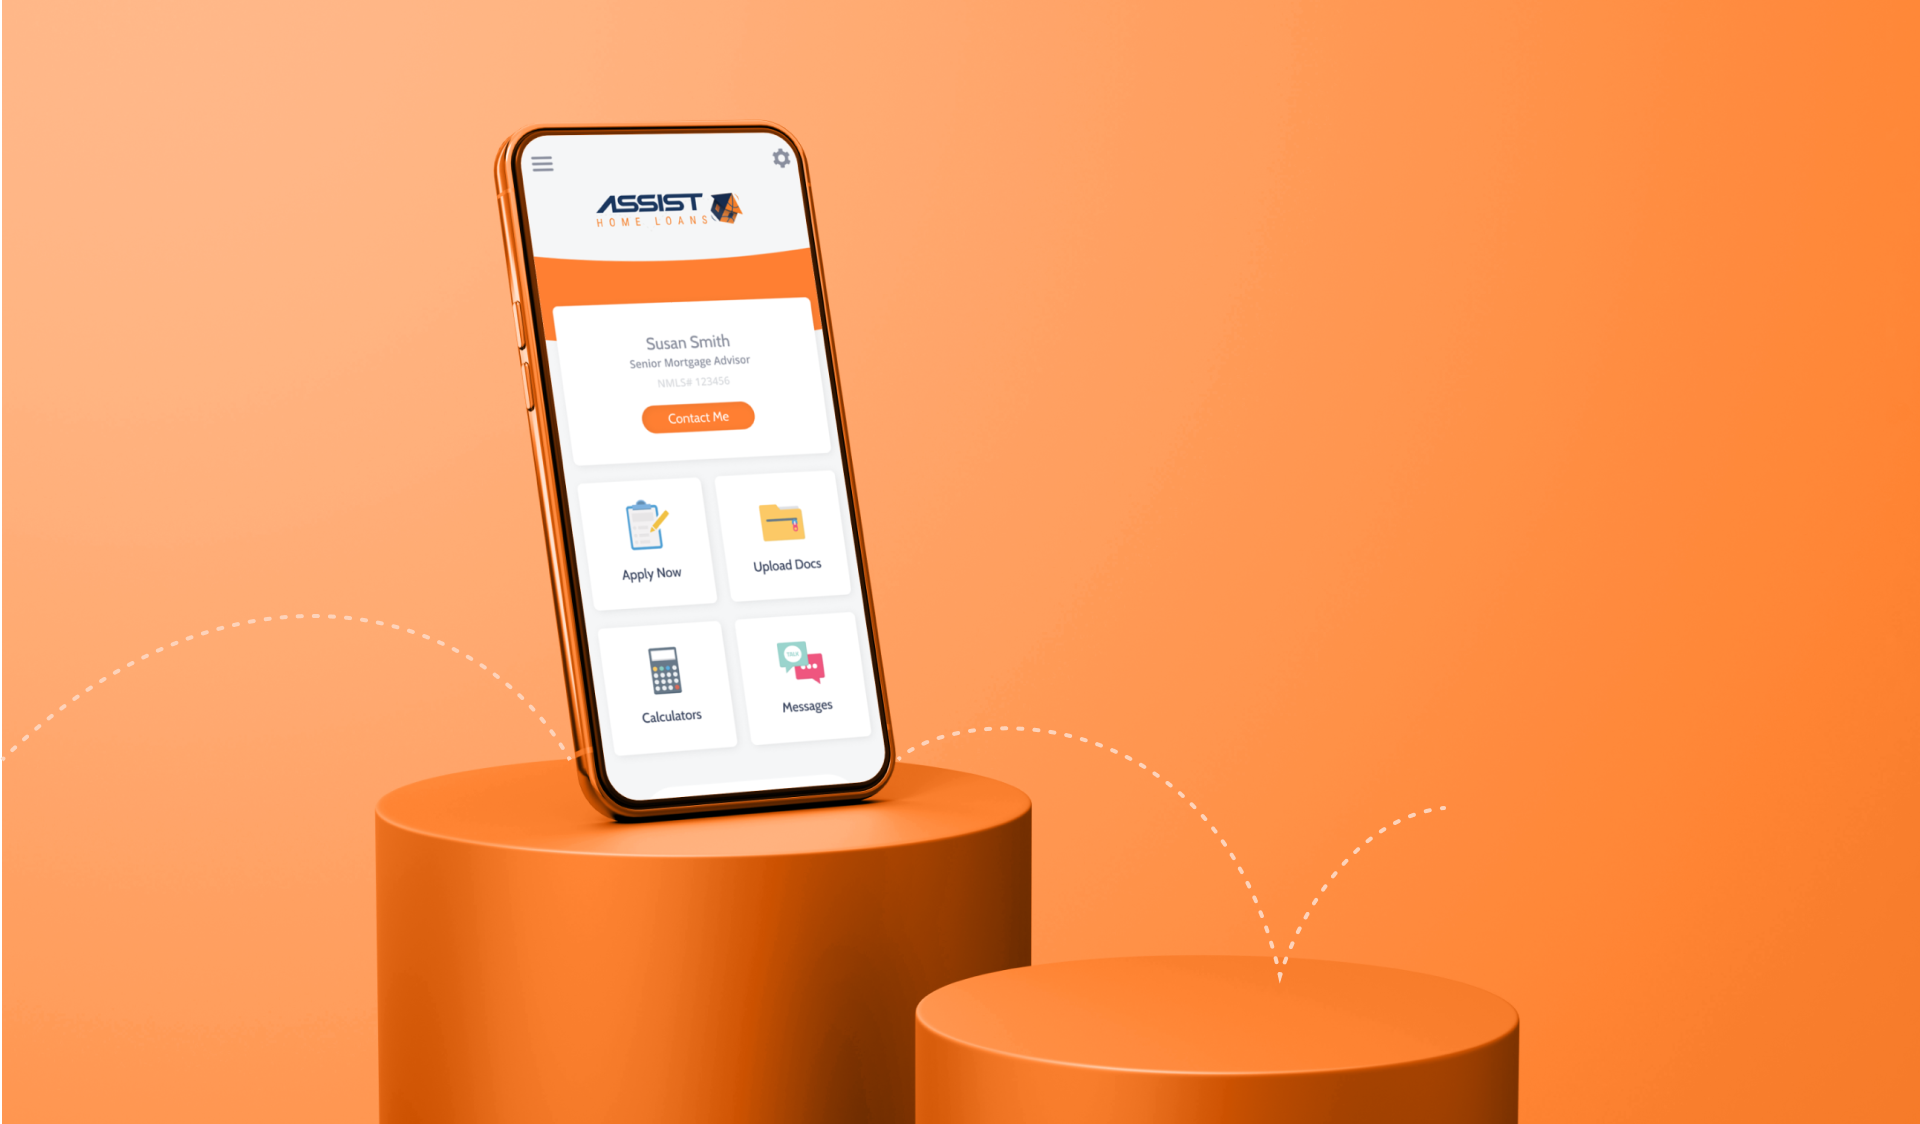
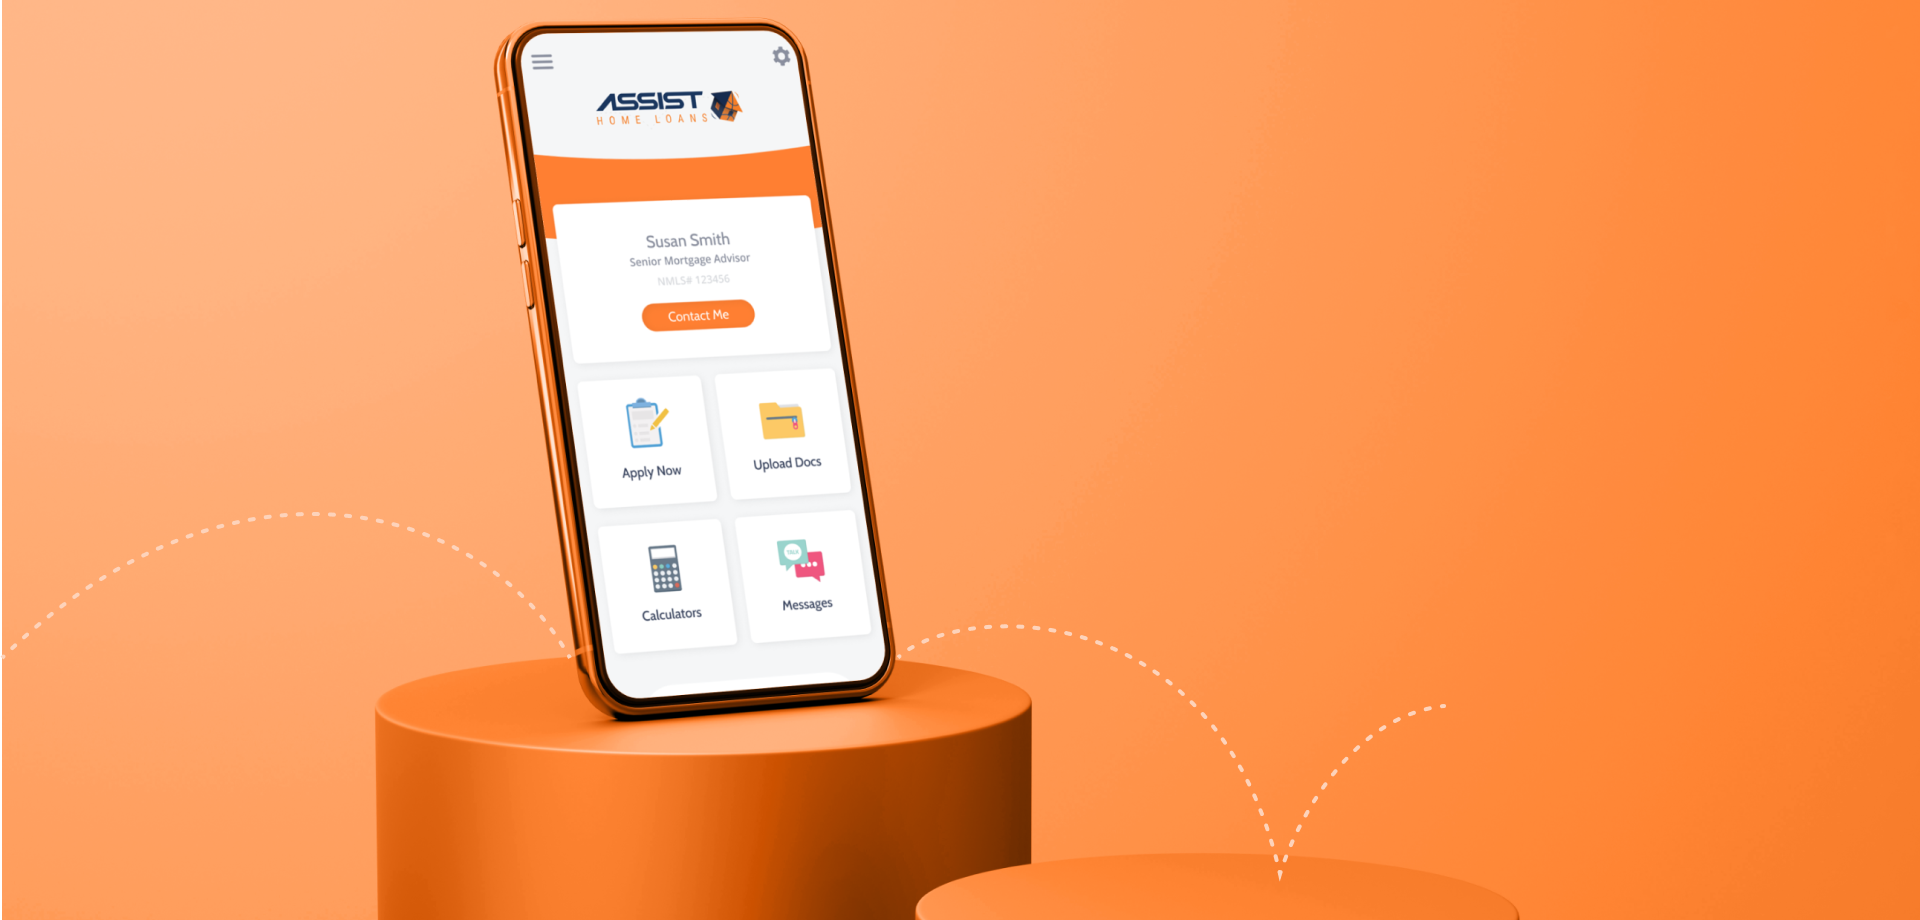
Fixed Home Loan size

diff --git a/app/index.html b/app/index.html
@@ -120,7 +120,7 @@
 
   <div class="large-hero">
     <picture>
-      <source srcset="assets/images/cta-background.png 2880w"
+      <source srcset="assets/images/cta-background.png 2197w"
         media="(min-width: 1920px)">
       <source srcset="assets/images/cta-background--medium.png 1920w"
         media="(min-width: 1010px)">
